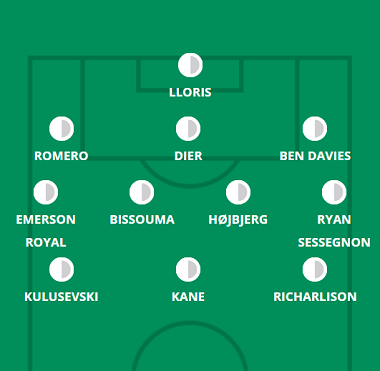
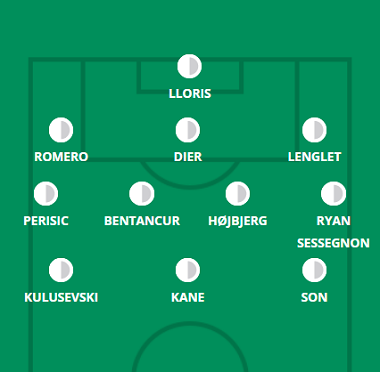
city spurs

diff --git a/tot.html b/tot.html
@@ -66,7 +66,7 @@
             <hgroup>
                 <h1> Provável Escalação</h1>
                 <h2 class="direita"> por FabioVascão </h2>
-                <h3 class="direita"> Atualizado em 09/Setembro/2022 </h3>
+                <h3 class="direita"> Atualizado em 16/Setembro/2022 </h3>
             </hgroup>
     
             <h2 class="time"> <img src="_fotos/_logos/logospurs.png" />Tottenham</h2>
@@ -75,9 +75,9 @@
                     <img src="_fotos/_dinamicas/tot.png" />
                 </figure>
             </aside>
-                <div class="escalacao"><h2 class="titulo">Ultimas Notícias</h2> <h4><p>Mais informações em breve.</p></h4><br>
-                    <h4><strong>Jogadores fora da próxima partida:</strong> Bergwijn, Gil e Lucas Moura</h4><br><br>
-                    <h4><strong>Jogadores dúvidas:</strong> Hojbjerg</h4>
+                <div class="escalacao"><h2 class="titulo">Ultimas Notícias</h2> <h4><p>Lucas Moura (tendão) é o único jogador dos Spurs ausente para a visita ao Leicester, por isso agora é uma questão de quanta fadiga e rotação liderada pela forma Antonio Conte apresenta após uma derrota no meio da semana em Portugal. Son Heung-min foi criticado ultimamente por uma queda nos níveis, com Conte dizendo que ninguém é "improvável" quando perguntado sobre o internacional da Coreia do Sul no presser de quinta-feira - embora essa resposta tenha sido menos sobre o próprio Son e mais sobre o uso a profundidade do esquadrão em tempos de congestionamento de jogos. Também houve muitos comentários sobre a situação do lateral, com Conte efetivamente afastando Matt Doherty do acerto de contas até depois do intervalo internacional e dizendo que Emerson estava "cansado". O chefe dos Spurs também discutiu a possibilidade de Ivan Perisic substituir no flanco direito e Ryan Sessegnon "merecendo" um recall, então ambas as opções do lado esquerdo jogando no mesmo lado são um cenário contra os Foxes. Clement Lenglet para Ben Davies é uma forte possibilidade em uma defesa inalterada, enquanto novamente será quatro de três para cima. Dejan Kulusevski tem sido o cara da queda nas últimas semanas, mas certamente tem uma boa chance de ser convocado aqui após as lutas no meio da semana na Liga dos Campeões. Son mereceria abrir caminho com base no mérito, mas Conte pode tentar jogar seu ala tímido de alguma forma contra os Foxes, então Richarlison pode ter que desistir para acomodar qualquer retorno para o sueco. </p></h4><br>
+                    <h4><strong>Jogadores fora da próxima partida:</strong> Bergwijn e Lucas Moura</h4><br><br>
+                    <h4><strong>Jogadores dúvidas:</strong> </h4>
                 </div> 
         </header>
         </article>

diff --git a/city.html b/city.html
@@ -66,7 +66,7 @@
             <hgroup>
                 <h1> Provável Escalação</h1>
                 <h2 class="direita"> por FabioVascão </h2>
-                <h3 class="direita"> Atualizado em 09/Setembro/2022 </h3>
+                <h3 class="direita"> Atualizado em 16/Setembro/2022 </h3>
             </hgroup>
     
             <h2 class="time"> <img src="_fotos/_logos/logocity.png" />Manchester City</h2>
@@ -75,9 +75,9 @@
                     <img src="_fotos/_dinamicas/city.png" />
                 </figure>
             </aside>
-                <div class="escalacao"><h2 class="titulo">Ultimas Notícias</h2> <h4><p>Mais informações em breve.</p></h4><br>
+                <div class="escalacao"><h2 class="titulo">Ultimas Notícias</h2> <h4><p>Aymeric Laporte (lesão no joelho) não está pronto para voltar a jogar apesar de seu retorno aos treinos, enquanto Pep Guardiola disse a repórteres na sexta-feira que "não sabia" se Kyle Walker estaria apto para jogar após sua recente ausência do treinamento. John Stones não se saiu muito mal como lateral-direito no meio da semana e pode ser preferido a Sergio Gomez na zaga (João Cancelo trocaria de lado se não), enquanto Ruben Dias certamente voltará à equação aqui depois de um banco no meio da semana expulsar um de Manuel Akanji ou Nathan Ake; o primeiro talvez seja o favorito para dar a Guardiola seu tão amado equilíbrio no meio-campo. Bernardo Silva e Phil Foden também foram substitutos contra o Borussia Dortmund na quarta-feira e parecem estar de volta, com uma exibição sombria de Jack Grealish não fazendo nenhum favor às suas perspectivas de equipe principal. Apenas preocupações com a rápida reviravolta de quarta a sábado provavelmente impediriam Rodri, Kevin De Bruyne e Erling Haaland de começar em Molineux, mas dada a falta de um jogo da liga no último fim de semana e uma próxima pausa internacional, há menos preocupações. nessa frente. A forma como Guardiola usa o versátil Bernardo provavelmente ditará qual de Ilkay Gundogan, Julian Alvarez ou Riyad Mahrez será o escolhido; o técnico do City pode optar por Gundogan no pivô duplo para contra-atacar três do meio-campo do Wolves e dar a De Bruyne mais da licença de ataque que ele desfrutou em uma exibição de quatro gols nesta partida na temporada passada.</p></h4><br>
                     <h4><strong>Jogadores fora da próxima partida:</strong> Laporte</h4><br><br>
-                    <h4><strong>Jogadores dúvidas:</strong> Aké, Grealish e Phillips</h4>
+                    <h4><strong>Jogadores dúvidas:</strong> Walker</h4>
                 </div> 
         </header>
         </article>
